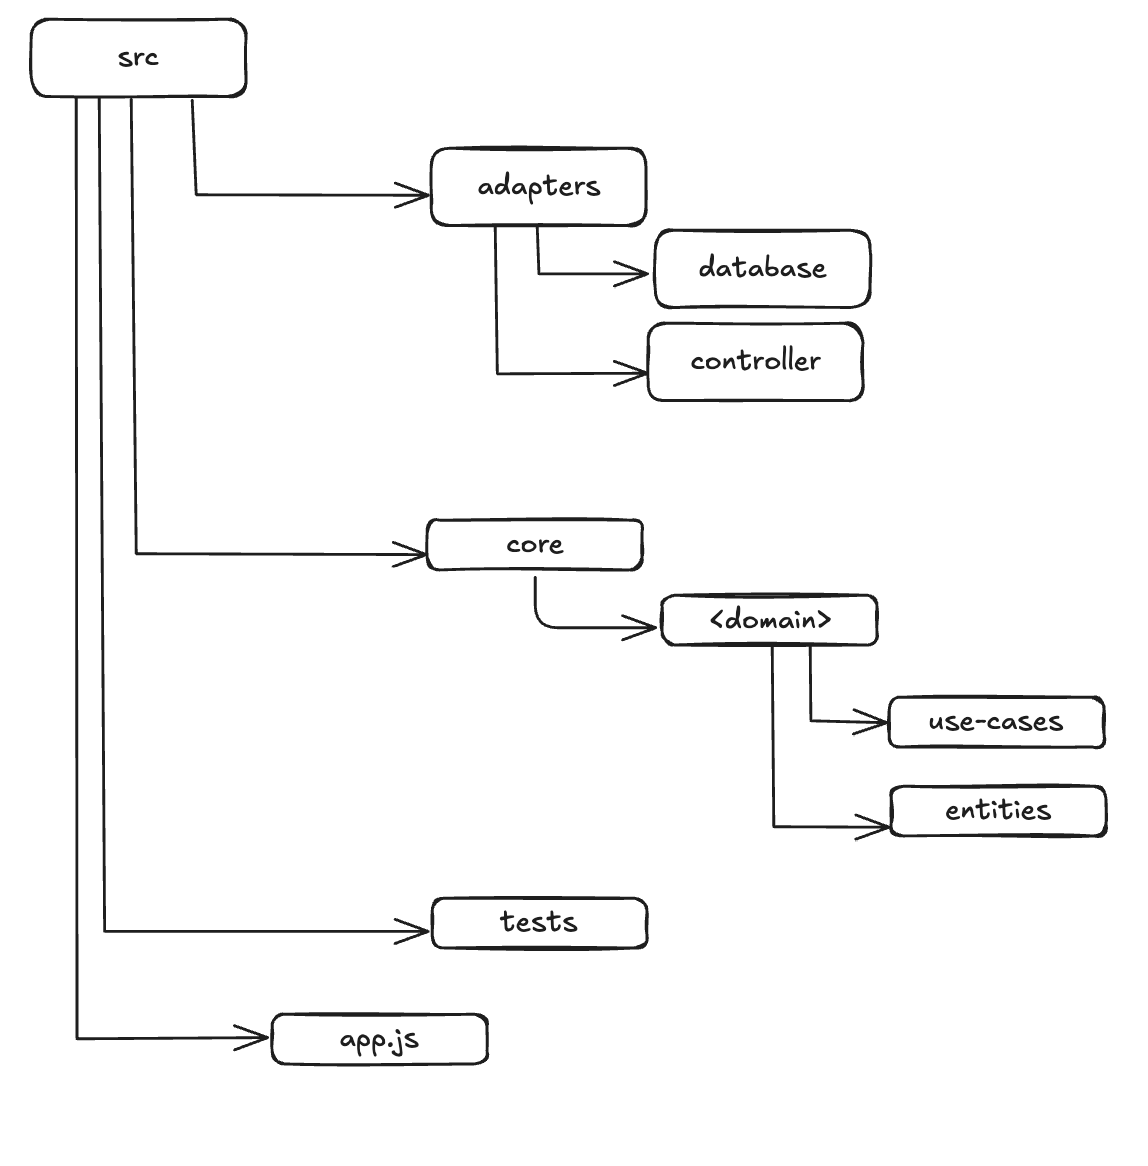
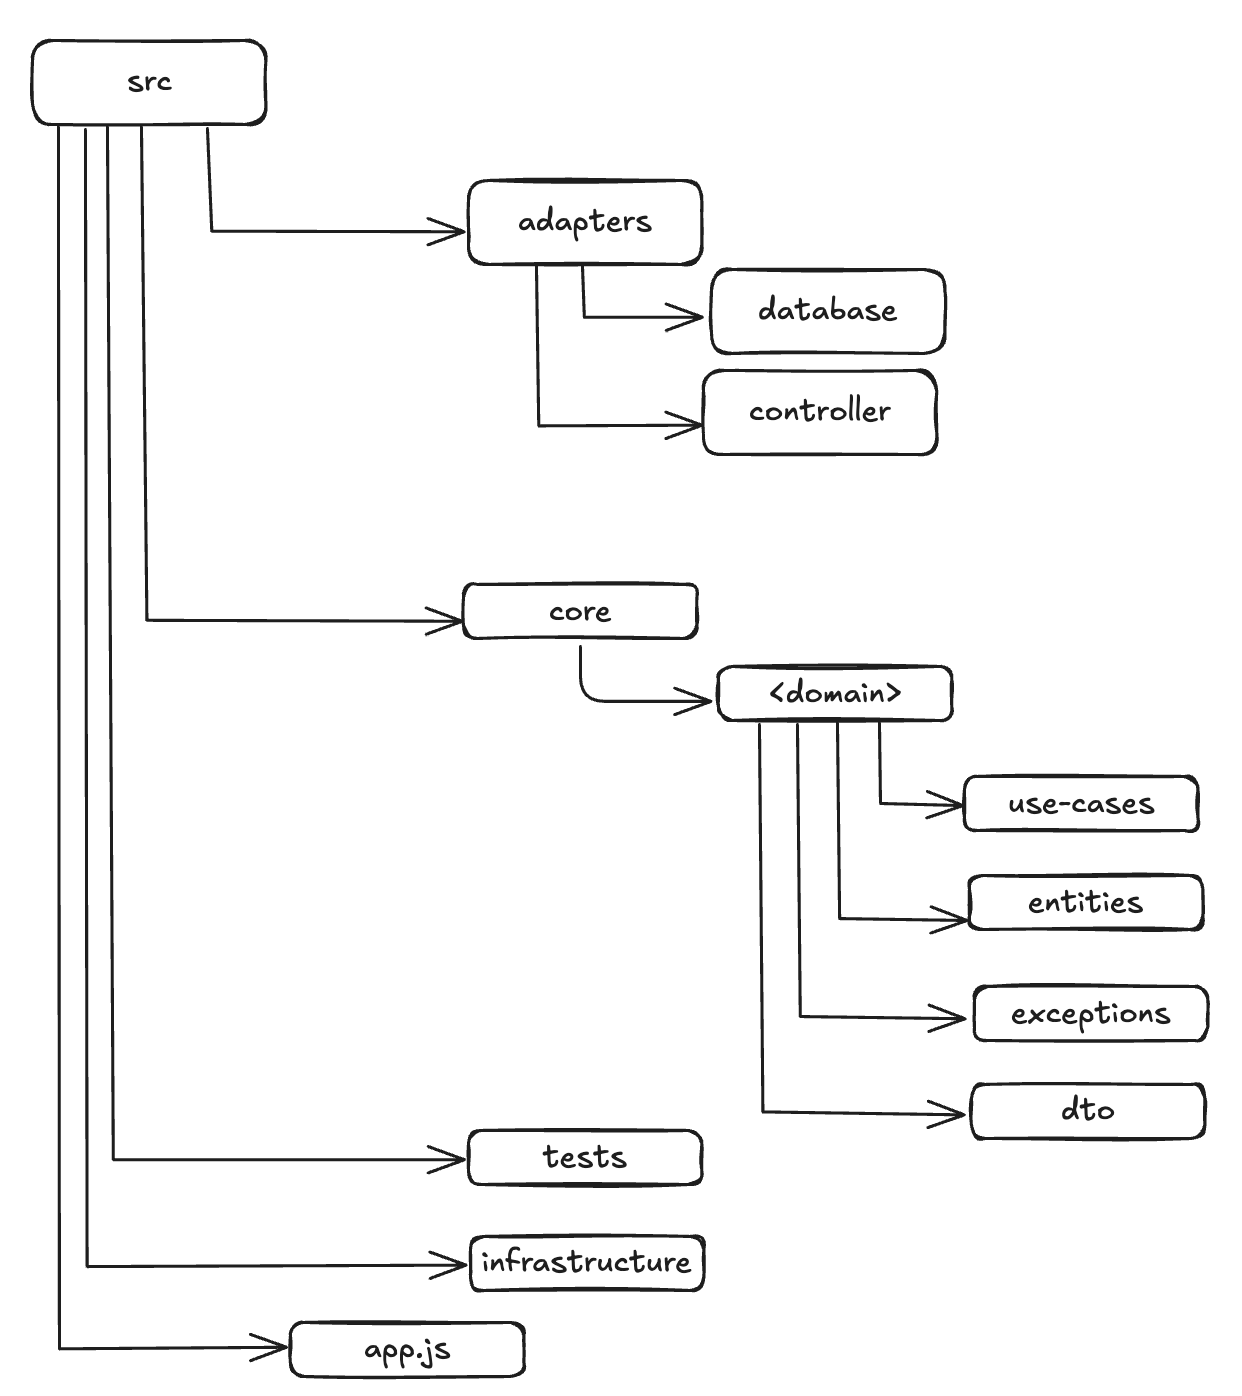
doc: update image and project structure

diff --git a/README.md b/README.md
@@ -27,6 +27,9 @@ Para parar a execução do projeto, pode ser executado Ctrl+C e em seguida o com
 
 Ao acessar a URL `http://localhost:8080/`, você será redirecionado a documentação Swagger das APIs e poderá executar as requisições conforme documentado.
 
+#### Executando os testes
+Execute `npm run test` para rodar os testes unitários da aplicação
+
 ## Tarefas
 
 As tarefas estão descritas em projetos da organização do GitHub.
@@ -51,6 +54,9 @@ As tarefas estão descritas em projetos da organização do GitHub.
 - `src/core` - Objetos do domínio da solução. Não devem depender de objetos que são criados fora dessa camada, devendo utilizar interfaces (`ports`) e injeção de dependência para execução da aplicação.
 - `src/core/<domain>/entities` - Entidades do domínio conforme identificado através dos exercícios de Domain-Driven Design.
 - `src/core/<domain>/use-cases` - Processos de negócio que foram identificados dentro do domínio; executados através da orquestração das entidades e das `ports`.
+- `src/core/<domain>/exceptions` - Exceções lançadas pelos processos de negócio e entidades;
+- `src/core/<domain>/dto` - Objetos para transferência de dados entre as camadas da aplicação;
+- `src/infrastructure` - Configurações de infraestrutura como banco de dados e documentação
 - `src/tests` - Testes do projeto.
 - `app.js` - Ponto de entrada da aplicação, onde os objetos são instanciados com suas respectivas dependências e a aplicação começa a ser executada.
 
